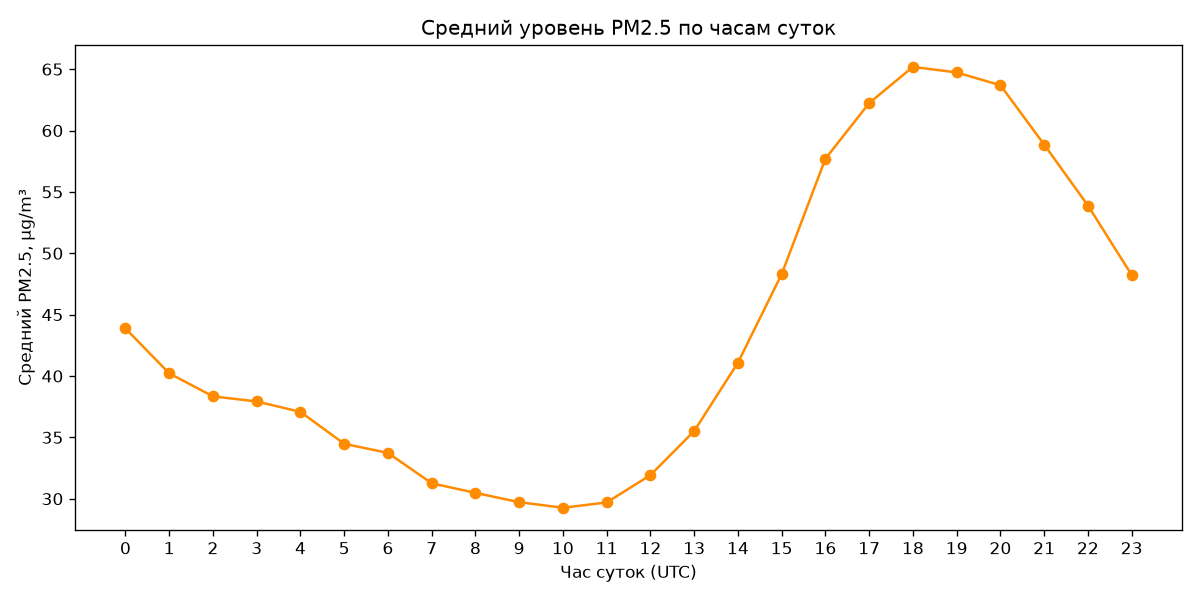
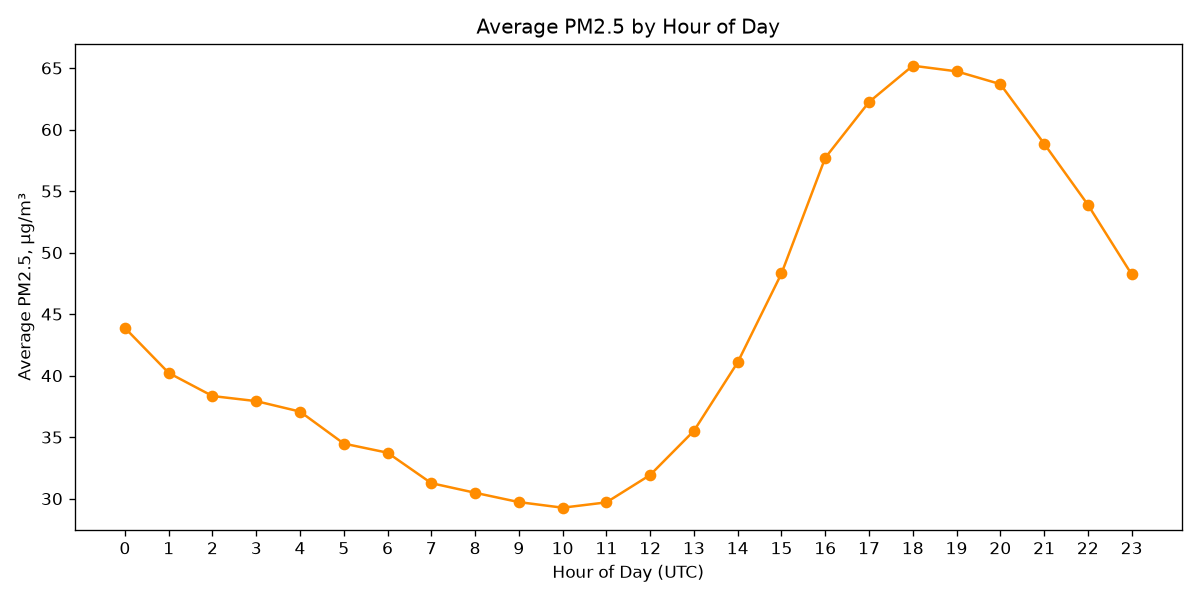
Clean up comments in scripts, add plots

diff --git a/scripts/eda_analysis.py b/scripts/eda_analysis.py
@@ -1,7 +1,6 @@
-
 import pandas as pd
 import matplotlib
-matplotlib.use("Agg")  # чтобы работало без графического интерфейса
+matplotlib.use("Agg")
 import matplotlib.pyplot as plt
 from pathlib import Path
 
@@ -19,7 +18,6 @@ def load_data() -> pd.DataFrame:
 
 
 def analyze_gaps(df: pd.DataFrame) -> None:
-    """Находит пропущенные часы и показывает, где именно они сосредоточены."""
     full_range = pd.date_range(
         start=df["datetimeUtc"].min(),
         end=df["datetimeUtc"].max(),
@@ -28,10 +26,10 @@ def analyze_gaps(df: pd.DataFrame) -> None:
     existing = set(df["datetimeUtc"])
     missing = [ts for ts in full_range if ts not in existing]
 
-    print(f"Всего пропущено часов: {len(missing)}")
+    print(f"Total missing hours: {len(missing)}")
 
     if not missing:
-        print("Пропусков нет.")
+        print("No missing hours.")
         return
 
     missing_series = pd.Series(missing).sort_values().reset_index(drop=True)
@@ -46,71 +44,64 @@ def analyze_gaps(df: pd.DataFrame) -> None:
         prev = ts
     gaps.append((block_start, prev))
 
-    print(f"\nПропуски сгруппированы в {len(gaps)} блок(ов):")
+    print(f"\nMissing hours grouped into {len(gaps)} block(s):")
     for start, end in gaps:
         duration_hours = int((end - start).total_seconds() / 3600) + 1
-        print(f"  {start} -> {end}  ({duration_hours} ч.)")
-
+        print(f"  {start} -> {end}  ({duration_hours} h)")
 
 def plot_pm25_overview(df: pd.DataFrame) -> None:
-    """График PM2.5 за весь период."""
     fig, ax = plt.subplots(figsize=(14, 5))
     ax.plot(df["datetimeUtc"], df["pm25"], linewidth=0.5, color="steelblue")
-    ax.set_title("PM2.5 в Алматы: весь период наблюдений")
-    ax.set_xlabel("Дата")
+    ax.set_title("PM2.5 in Almaty: Full Observation Period")
+    ax.set_xlabel("Date")
     ax.set_ylabel("PM2.5, µg/m³")
     fig.tight_layout()
     fig.savefig(PLOTS_DIR / "pm25_full_period.png", dpi=120)
     plt.close(fig)
-    print(f"Сохранён график: {PLOTS_DIR / 'pm25_full_period.png'}")
-
+    print(f"Saved plot: {PLOTS_DIR / 'pm25_full_period.png'}")
 
 def plot_daily_pattern(df: pd.DataFrame) -> None:
-    """Средний профиль PM2.5 по часам суток — показывает суточную сезонность."""
     df = df.copy()
     df["hour"] = df["datetimeUtc"].dt.hour
     hourly_avg = df.groupby("hour")["pm25"].mean()
 
     fig, ax = plt.subplots(figsize=(10, 5))
     ax.plot(hourly_avg.index, hourly_avg.values, marker="o", color="darkorange")
-    ax.set_title("Средний уровень PM2.5 по часам суток")
-    ax.set_xlabel("Час суток (UTC)")
-    ax.set_ylabel("Средний PM2.5, µg/m³")
+    ax.set_title("Average PM2.5 by Hour of Day")
+    ax.set_xlabel("Hour of Day (UTC)")
+    ax.set_ylabel("Average PM2.5, µg/m³")
     ax.set_xticks(range(0, 24))
     fig.tight_layout()
     fig.savefig(PLOTS_DIR / "pm25_daily_pattern.png", dpi=120)
     plt.close(fig)
-    print(f"Сохранён график: {PLOTS_DIR / 'pm25_daily_pattern.png'}")
-
+    print(f"Saved plot: {PLOTS_DIR / 'pm25_daily_pattern.png'}")
 
 def plot_monthly_distribution(df: pd.DataFrame) -> None:
-    """Распределение PM2.5 по месяцам — показывает сезонность."""
     df = df.copy()
     df["month"] = df["datetimeUtc"].dt.to_period("M").astype(str)
 
     fig, ax = plt.subplots(figsize=(12, 5))
     df.boxplot(column="pm25", by="month", ax=ax)
-    ax.set_title("Распределение PM2.5 по месяцам")
-    ax.set_xlabel("Месяц")
+    ax.set_title("PM2.5 Distribution by Month")
+    ax.set_xlabel("Month")
     ax.set_ylabel("PM2.5, µg/m³")
     plt.suptitle("")
     fig.tight_layout()
     fig.savefig(PLOTS_DIR / "pm25_monthly_boxplot.png", dpi=120)
     plt.close(fig)
-    print(f"Сохранён график: {PLOTS_DIR / 'pm25_monthly_boxplot.png'}")
-
+    print(f"Saved plot: {PLOTS_DIR / 'pm25_monthly_boxplot.png'}")
 
 def print_basic_stats(df: pd.DataFrame) -> None:
-    print("\nБазовая статистика по PM2.5:")
+    print("\nBasic statistics for PM2.5:")
     print(df["pm25"].describe())
-    print(f"\nПропуски в значениях (NaN) по колонкам:")
+    print(f"\nMissing values (NaN) per column:")
     print(df.isna().sum())
 
 
 def main():
     df = load_data()
-    print(f"Загружено строк: {len(df)}")
-    print(f"Период: {df['datetimeUtc'].min()} -> {df['datetimeUtc'].max()}\n")
+    print(f"Rows loaded: {len(df)}")
+    print(f"Period: {df['datetimeUtc'].min()} -> {df['datetimeUtc'].max()}\n")
 
     analyze_gaps(df)
     print_basic_stats(df)
@@ -119,8 +110,7 @@ def main():
     plot_daily_pattern(df)
     plot_monthly_distribution(df)
 
-    print("\nГотово. Посмотрите графики в data/eda_plots/")
-
+    print("\nDone. Plots saved in data/eda_plots/")
 
 if __name__ == "__main__":
     main()

diff --git a/scripts/model_plots.py b/scripts/model_plots.py
@@ -1,0 +1,60 @@
+import pandas as pd
+import matplotlib
+matplotlib.use("Agg")
+import matplotlib.pyplot as plt
+from pathlib import Path
+from xgboost import XGBRegressor
+
+DATA_DIR = Path(__file__).resolve().parent.parent / "data"
+INPUT_FILE = DATA_DIR / "features.csv"
+PLOTS_DIR = DATA_DIR / "eda_plots"
+
+df = pd.read_csv(INPUT_FILE, parse_dates=["datetimeUtc"])
+df = df.sort_values("datetimeUtc").reset_index(drop=True)
+
+n = len(df)
+train_end = int(n * 0.70)
+val_end = int(n * 0.85)
+
+train = df.iloc[:train_end]
+test = df.iloc[val_end:]
+
+feature_cols = [
+    "pm25", "humidity_pct", "temperature_c", "pm03_count",
+    "pm25_lag_1h", "pm25_lag_3h", "pm25_lag_6h", "pm25_lag_12h", "pm25_lag_24h", "pm25_lag_48h",
+    "pm25_rolling_mean_6h", "pm25_rolling_mean_12h", "pm25_rolling_mean_24h", "pm25_rolling_mean_48h",
+    "hour", "day_of_week", "month",
+]
+target_col = "target_pm25_next24h_avg"
+
+X_train, y_train = train[feature_cols], train[target_col]
+X_test, y_test = test[feature_cols], test[target_col]
+
+model = XGBRegressor(n_estimators=200, max_depth=5, learning_rate=0.05, random_state=42)
+model.fit(X_train, y_train)
+pred_test = model.predict(X_test)
+
+fig, ax = plt.subplots(figsize=(14, 5))
+ax.plot(test["datetimeUtc"], y_test.values, label="Actual", color="steelblue", linewidth=1)
+ax.plot(test["datetimeUtc"], pred_test, label="Predicted (XGBoost)", color="darkorange", linewidth=1, alpha=0.8)
+ax.set_title("XGBoost: Predicted vs Actual PM2.5 (Test Set)")
+ax.set_xlabel("Date")
+ax.set_ylabel("PM2.5, µg/m³")
+ax.legend()
+fig.tight_layout()
+fig.savefig(PLOTS_DIR / "xgboost_predicted_vs_actual.png", dpi=120)
+plt.close(fig)
+print(f"Saved plot: {PLOTS_DIR / 'xgboost_predicted_vs_actual.png'}")
+
+fig, ax = plt.subplots(figsize=(7, 7))
+ax.scatter(y_test, pred_test, alpha=0.4, color="steelblue", s=15)
+max_val = max(y_test.max(), pred_test.max())
+ax.plot([0, max_val], [0, max_val], color="red", linestyle="--", label="Perfect prediction")
+ax.set_xlabel("Actual PM2.5, µg/m³")
+ax.set_ylabel("Predicted PM2.5, µg/m³")
+ax.set_title("XGBoost: Predicted vs Actual (Scatter Plot)")
+ax.legend()
+fig.tight_layout()
+fig.savefig(PLOTS_DIR / "xgboost_scatter.png", dpi=120)
+plt.close(fig)
+print(f"Saved plot: {PLOTS_DIR / 'xgboost_scatter.png'}")

diff --git a/scripts/build_features.py b/scripts/build_features.py
@@ -7,36 +7,30 @@ DATA_DIR = Path(__file__).resolve().parent.parent / "data"
 INPUT_FILE = DATA_DIR / "openaq_merged.csv"
 OUTPUT_FILE = DATA_DIR / "features.csv"
 
-#чтение данных
+
 df = pd.read_csv(INPUT_FILE, parse_dates=["datetimeUtc"])
 df = df.sort_values("datetimeUtc").reset_index(drop=True)
 
 print(f"Загружено строк: {len(df)}")
 
-# сдвиг колоны вниз чтобы полцчить знач за час
 lag_hours = [1, 3, 6, 12, 24, 48]
 for lag in lag_hours:
     df[f"pm25_lag_{lag}h"] = df["pm25"].shift(lag)
 
-# не включайй текущ час в расчет брать подряд
 rolling_windows = [6, 12, 24, 48]
 for window in rolling_windows:
     df[f"pm25_rolling_mean_{window}h"] = df["pm25"].shift(1).rolling(window).mean()
 
-# --- Календарные признаки ---
 df["hour"] = df["datetimeUtc"].dt.hour
 df["day_of_week"] = df["datetimeUtc"].dt.dayofweek  # 0 = понедельник
 df["month"] = df["datetimeUtc"].dt.month
 
-# свдиг данных на 24 стрк
 df["target_pm25_next24h_avg"] = df["pm25"].shift(-24).rolling(24).mean()
 
-# в датасете отсвт 48 час данные поэтому из убираем
 before = len(df)
 df = df.dropna()
 print(f"Строк до очистки: {before}, после: {len(df)} (удалено {before - len(df)})")
 
-# --- Сохраняем результат ---
 df.to_csv(OUTPUT_FILE, index=False)
 print(f"Сохранено: {OUTPUT_FILE}")
 print(f"Колонки: {list(df.columns)}")

diff --git a/scripts/baseline_models.py b/scripts/baseline_models.py
@@ -10,7 +10,7 @@ INPUT_FILE = DATA_DIR / "features.csv"
 df = pd.read_csv(INPUT_FILE, parse_dates=["datetimeUtc"])
 df = df.sort_values("datetimeUtc").reset_index(drop=True)
 
-# 70% 15% разбиение
+
 n = len(df)
 train_end = int(n * 0.70)
 val_end = int(n * 0.85)
@@ -23,7 +23,6 @@ print(f"Train: {len(train)} строк ({train['datetimeUtc'].min()} -> {train['
 print(f"Val:   {len(val)} строк ({val['datetimeUtc'].min()} -> {val['datetimeUtc'].max()})")
 print(f"Test:  {len(test)} строк ({test['datetimeUtc'].min()} -> {test['datetimeUtc'].max()})")
 
-# ррасчет метрик
 def mae(y_true, y_pred):
     return np.mean(np.abs(y_true - y_pred))
 
@@ -31,11 +30,7 @@ def rmse(y_true, y_pred):
     return np.sqrt(np.mean((y_true - y_pred) ** 2))
 
 y_test = test["target_pm25_next24h_avg"].values
-
-# последнее известное значение PM2.5
 pred_persistence = test["pm25"].values
-
-#Baseline 2прогноз  сред PM2.5 за ласт 24ч
 pred_moving_avg = test["pm25_rolling_mean_24h"].values
 
 hourly_avg_train = train.groupby("hour")["pm25"].mean()

diff --git a/scripts/merge_openaq_data.py b/scripts/merge_openaq_data.py
@@ -45,9 +45,8 @@ def load_all_parts() -> pd.DataFrame:
 
 
 def clean_and_pivot(df: pd.DataFrame) -> pd.DataFrame:
-    """Убирает дубликаты, разворачивает в широкий формат по времени."""
 
-    # убирает дубликаты
+  
     before = len(df)
     df = df.drop_duplicates(subset=["datetimeUtc", "parameter", "value"])
     print(f"Убрано дубликатов: {before - len(df)}")
@@ -79,7 +78,7 @@ def main():
           f"{result['datetimeUtc'].min()} по {result['datetimeUtc'].max()}")
     print(f"Колонки: {list(result.columns)}")
 
-    # проверка пропусков
+
     expected_hours = pd.date_range(
         start=result["datetimeUtc"].min(),
         end=result["datetimeUtc"].max(),
